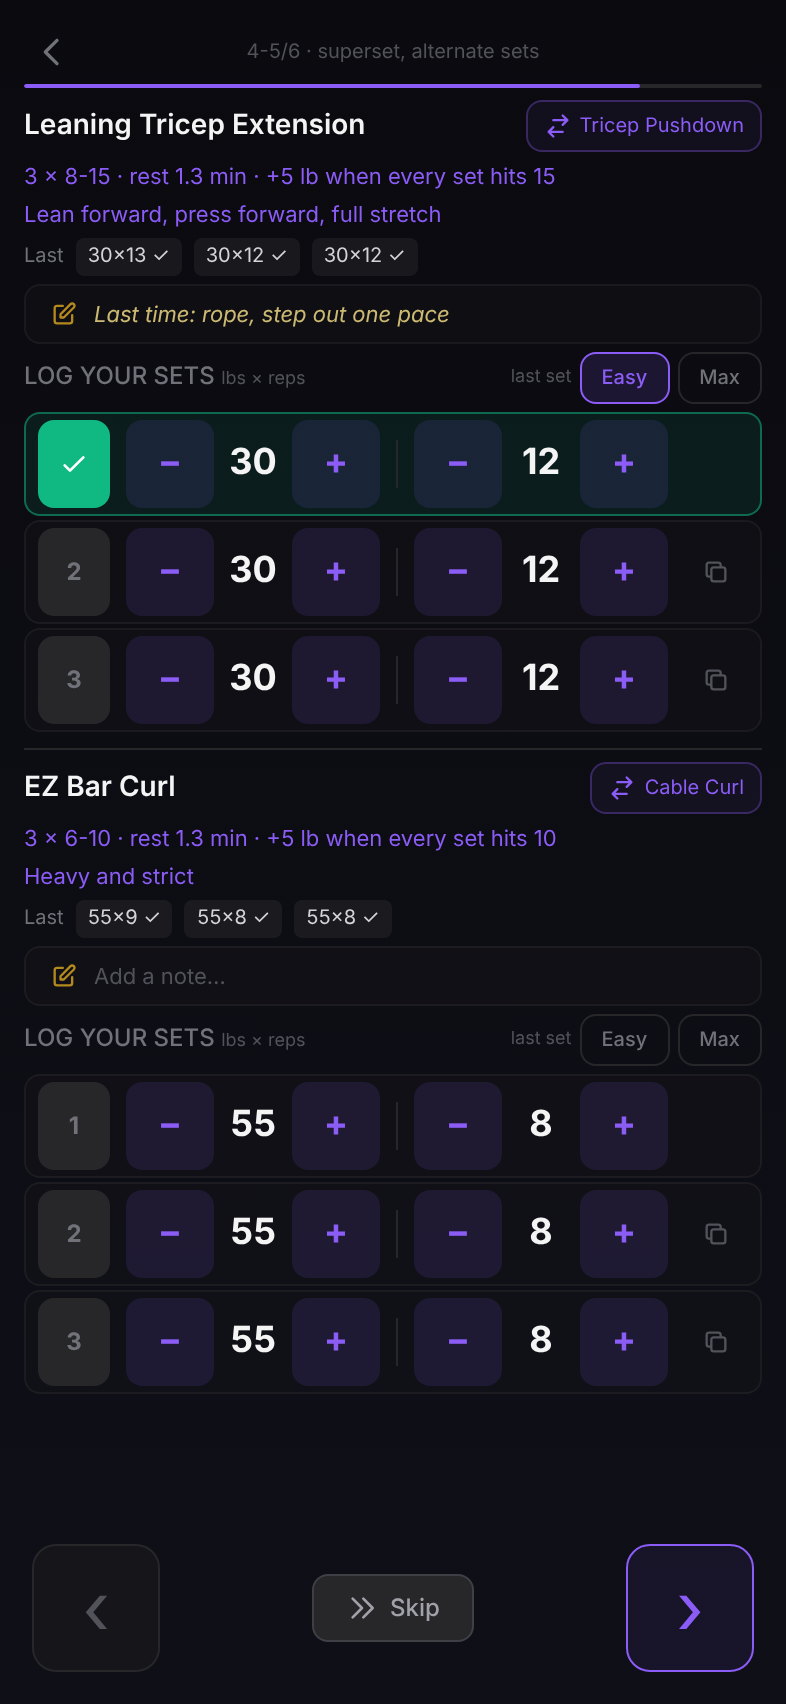
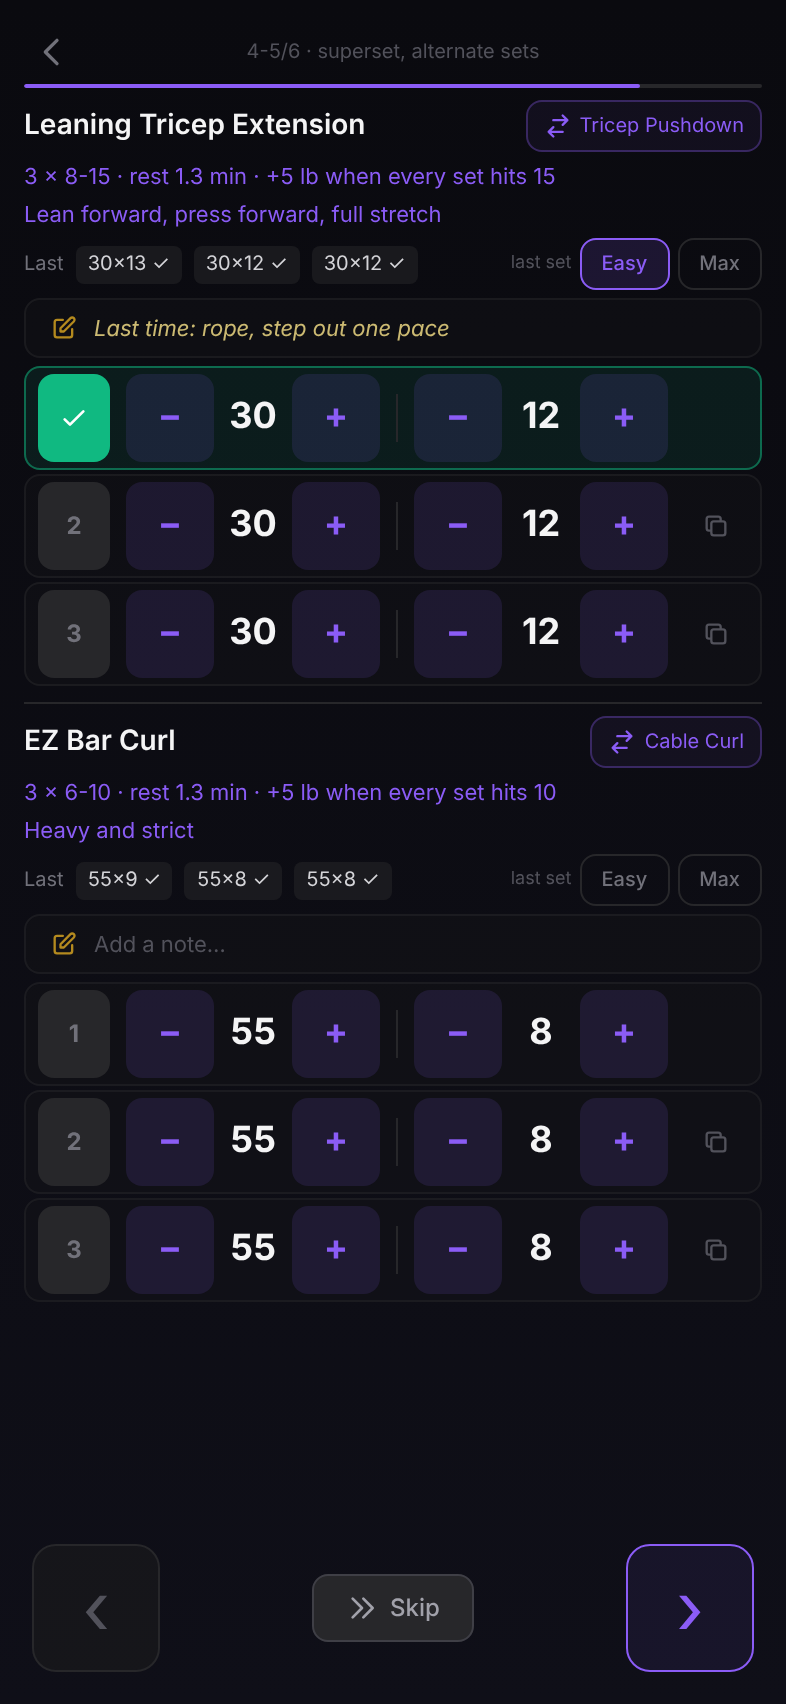
Superset screen fits the phone; measure checks it and the touch targets
- Superset panels put the effort chips on the last-session row and drop
  the set header, bringing the pair screen from 26 px over to 20 px spare.
- measure.js measures the superset screen, checks every touch-target
  minimum from the brief, and exits non-zero on any overflow or shrink.
- Brief and reference screenshots updated to match.

Claude-Session: https://claude.ai/code/session_01TmQ9eYEmiSU1XnFWvApWAo

diff --git a/tests/measure.js b/tests/measure.js
@@ -7,6 +7,7 @@ const { chromium } = require('playwright-core');
 const file = process.argv[2] && !process.argv[2].startsWith('--') ? process.argv[2] : path.join(__dirname, '..', 'workout-tracker.html');
 const shot = process.argv.includes('--shot');
 const USABLE = 852 - 59 - 34;
+let failures = 0;
 
 (async () => {
   const browser = await chromium.launch({ executablePath: '/opt/pw-browsers/chromium', args: ['--no-sandbox'] });
@@ -16,6 +17,9 @@ const USABLE = 852 - 59 - 34;
     const day = (n) => new Date(Date.now() - n * 864e5).toISOString();
     const entry = (w, r, n, extra = {}) => ({ exerciseName: 'x', usedAlt: false, weight: w, sets: [{ weight: Math.round(w*0.5), reps: 5, completed: true, warmup: true }, { weight: Math.round(w*0.7), reps: 3, completed: true, warmup: true }, { weight: w, reps: r, completed: true }, { weight: w, reps: r, completed: true }, { weight: w, reps: r, completed: true }], date: day(n), skipped: false, ...extra });
     const seed = { day2: { exercises: { deadlift: [entry(215, 6, 40), entry(225, 5, 30, { notes: 'belt too loose, tighten before set 2' }), entry(230, 5, 20), entry(235, 4, 10)] }, sessions: [{ date: day(10), absDone: true }, { date: day(20), absDone: true }, { date: day(30), absDone: false }] } };
+    // History for a superset pair, so the two-panel screen is measured at its tallest
+    seed.day2.exercises.leg_curl = [entry(90, 10, 10, { notes: 'pad one notch back' })];
+    seed.day2.exercises.leg_ext = [entry(100, 12, 10)];
     await ctx.addInitScript((v) => { localStorage.setItem('workoutLog_4day', v); }, JSON.stringify(seed));
   }
   await page.goto('file://' + file, { waitUntil: 'load' });
@@ -43,6 +47,7 @@ const USABLE = 852 - 59 - 34;
     const need = r.contentBottom + 59;
     const limit = 852 - 34 - (r.fixedH ? r.fixedH + 8 : 0);
     const over = need - limit;
+    if (over > 0) failures++;
     console.log(`\n== ${label}: content needs ${need}px, limit ${limit}px → ${over > 0 ? 'OVERFLOWS by ' + over + 'px' : 'FITS (' + (-over) + 'px spare)'}`);
     for (const s of r.sections) console.log(`   ${String(s.h).padStart(4)}px${s.fixed ? '*' : ' '} ${s.tag.toLowerCase().padEnd(8)} ${s.cls.padEnd(40)} ${s.text}`);
     if (shot) await page.screenshot({ path: path.join(__dirname, `shot-${label.replace(/\W+/g, '_')}.png`), fullPage: true });
@@ -54,6 +59,25 @@ const USABLE = 852 - 59 - 34;
     return false;
   };
 
+  // Touch targets from DESIGN_BRIEF.md section 3: every matching control must be at least this big
+  const sizes = async (label, specs) => {
+    for (const [name, selector, text, minW, minH] of specs) {
+      const boxes = await page.evaluate(([sel, t]) => [...document.querySelectorAll(sel)].filter(el => t === null || el.textContent.trim() === t || (t.endsWith('*') && el.textContent.includes(t.slice(0, -1)))).map(el => { const r = el.getBoundingClientRect(); return [Math.round(r.width), Math.round(r.height)]; }), [selector, text]);
+      const bad = boxes.filter(([w, h]) => w < minW || h < minH);
+      if (boxes.length === 0 || bad.length) failures++;
+      console.log(`   ${boxes.length === 0 ? 'FAIL (not found)' : bad.length ? `FAIL ${bad[0][0]}x${bad[0][1]}` : 'ok  '} ${label}: ${name} >= ${minW}x${minH} (${boxes.length} found${boxes.length ? `, smallest ${Math.min(...boxes.map(b => b[0]))}x${Math.min(...boxes.map(b => b[1]))}` : ''})`);
+    }
+  };
+  const loggingTargets = [
+    ['set toggle', '.set-row > div > button:first-child', null, 36, 44],
+    ['stepper −', '.set-row button', '−', 44, 44],
+    ['stepper +', '.set-row button', '+', 44, 44],
+    ['prev', 'button', '‹', 64, 64],
+    ['next', 'button', '›', 64, 64],
+    ['skip', 'button', 'Skip*', 40, 32],
+    ['effort chip', '.effort-chips button', null, 40, 26]
+  ];
+
   await report('program-select');
   await click('Strongman');
   await report('home');
@@ -62,8 +86,14 @@ const USABLE = 852 - 59 - 34;
   // jump into exercise 1 (deadlift-style days have 5 set rows; use Lower Power for worst case)
   await click('Back'); await click('Lower Power');
   await report('day-overview-9-exercises');
+  await sizes('day overview', [['exercise row', '.exercise-row', null, 44, 44], ['? button', '.info-btn', null, 36, 36]]);
   await page.click('.exercise-row'); await page.waitForTimeout(500);
   await report(process.argv.includes('--seed') ? 'exercise-deadlift-5-sets-WITH-history' : 'exercise-deadlift-5-sets');
+  await sizes('exercise', loggingTargets);
+  // Superset pair (leg curl + leg extension): two panels on one screen
+  for (let i = 0; i < 3; i++) await click('›');
+  await report('exercise-superset-pair');
+  await sizes('superset', loggingTargets);
   // Walk to summary and complete (worst case: 6-exercise day)
   for (let i = 0; i < 8; i++) { const ok = await click('›'); if (!ok) break; }
   await page.waitForTimeout(400);
@@ -72,4 +102,6 @@ const USABLE = 852 - 59 - 34;
   await page.waitForTimeout(600);
   await report('complete');
   await browser.close();
+  console.log(failures ? `\n${failures} check(s) FAILED` : '\nAll screens fit and all touch targets hold');
+  process.exit(failures ? 1 : 0);
 })();

diff --git a/src/workout-tracker.jsx b/src/workout-tracker.jsx
@@ -1509,16 +1509,18 @@ function WorkoutApp() {
             <>
               {/* Superset: suggestion and last session, one line each */}
               <p className="text-[11px] truncate" style={{ color: suggestionColor, marginBottom: 4 }}>{suggestionText}</p>
-              {progression.lastSession && (
-                <div className="flex gap-1.5 items-center mb-1" style={{ overflow: 'hidden', whiteSpace: 'nowrap' }}>
-                  <span className="text-[10px] text-zinc-500 flex-shrink-0">Last</span>
-                  {progression.lastSession.sets.map((s, i) => (
+              {/* Last session on the left, effort chips on the right: saves the header row */}
+              <div className="flex items-center justify-between gap-2 mb-1">
+                <div className="flex gap-1.5 items-center flex-1 min-w-0" style={{ overflow: 'hidden', whiteSpace: 'nowrap' }}>
+                  {progression.lastSession && <span className="text-[10px] text-zinc-500 flex-shrink-0">Last</span>}
+                  {(progression.lastSession?.sets || []).map((s, i) => (
                     <span key={i} className={`px-1.5 py-0.5 rounded text-[10px] flex-shrink-0 ${s.warmup ? 'bg-amber-500/10 text-amber-400/80' : 'bg-zinc-800/50 text-zinc-300'}`}>
                       {s.warmup ? 'W ' : ''}{s.weight}×{s.reps}{s.completed ? ' ✓' : ''}
                     </span>
                   ))}
                 </div>
-              )}
+                <EffortChips value={currentData.effort || null} onChange={(v) => patchExercise(index, { effort: v })} accent={accent} />
+              </div>
             </>
           ) : (
             <>
@@ -1597,10 +1599,10 @@ function WorkoutApp() {
 
           {/* Journal - sets to log, plus the optional one-tap rating of the last set */}
           <div style={{ marginTop: paired ? 4 : 8 }}>
-            <div className="flex justify-between items-center mb-1">
+            {!paired && <div className="flex justify-between items-center mb-1">
               <span className="text-xs text-zinc-500 font-medium">LOG YOUR SETS <span className="text-[9px] text-zinc-600" style={{ fontWeight: 400 }}>{exerciseConfig.assisted ? 'lbs assist' : 'lbs'} × reps</span></span>
               <EffortChips value={currentData.effort || null} onChange={(v) => patchExercise(index, { effort: v })} accent={accent} />
-            </div>
+            </div>}
             <div style={{ display: 'flex', flexDirection: 'column', gap: 2 }}>
               {currentData.sets.map((set, i) => (
                 <SetRow

diff --git a/workout-tracker.html b/workout-tracker.html
@@ -3787,18 +3787,26 @@ function WorkoutApp() {
           color: suggestionColor,
           marginBottom: 4
         }
-      }, suggestionText), progression.lastSession && React.createElement("div", {
-        className: "flex gap-1.5 items-center mb-1",
+      }, suggestionText), React.createElement("div", {
+        className: "flex items-center justify-between gap-2 mb-1"
+      }, React.createElement("div", {
+        className: "flex gap-1.5 items-center flex-1 min-w-0",
         style: {
           overflow: 'hidden',
           whiteSpace: 'nowrap'
         }
-      }, React.createElement("span", {
+      }, progression.lastSession && React.createElement("span", {
         className: "text-[10px] text-zinc-500 flex-shrink-0"
-      }, "Last"), progression.lastSession.sets.map((s, i) => React.createElement("span", {
+      }, "Last"), (progression.lastSession?.sets || []).map((s, i) => React.createElement("span", {
         key: i,
         className: `px-1.5 py-0.5 rounded text-[10px] flex-shrink-0 ${s.warmup ? 'bg-amber-500/10 text-amber-400/80' : 'bg-zinc-800/50 text-zinc-300'}`
-      }, s.warmup ? 'W ' : '', s.weight, "\xD7", s.reps, s.completed ? ' ✓' : '')))) : React.createElement(React.Fragment, null, progression.lastSession && React.createElement("div", {
+      }, s.warmup ? 'W ' : '', s.weight, "\xD7", s.reps, s.completed ? ' ✓' : ''))), React.createElement(EffortChips, {
+        value: currentData.effort || null,
+        onChange: v => patchExercise(index, {
+          effort: v
+        }),
+        accent: accent
+      }))) : React.createElement(React.Fragment, null, progression.lastSession && React.createElement("div", {
         className: "mb-2 px-3 py-1.5 rounded-xl bg-zinc-900/50 border border-zinc-800/50"
       }, React.createElement("div", {
         className: "flex justify-between items-center"
@@ -3877,7 +3885,7 @@ function WorkoutApp() {
         style: {
           marginTop: paired ? 4 : 8
         }
-      }, React.createElement("div", {
+      }, !paired && React.createElement("div", {
         className: "flex justify-between items-center mb-1"
       }, React.createElement("span", {
         className: "text-xs text-zinc-500 font-medium"

diff --git a/tests/screens.js b/tests/screens.js
@@ -38,7 +38,7 @@ const seed = {
   await tap('Upper Power'); await shot('day_overview');
   await page.click('.info-btn'); await shot('day_overview_info_sheet'); await tap('Close');
   await tap('Back'); await tap('Upper Size');
-  await tap('Leaning Tricep Extension'); await page.waitForSelector('text=LOG YOUR SETS');
+  await tap('Leaning Tricep Extension'); await page.waitForSelector('.set-row');
   await page.click('.set-row button'); await page.click('.effort-chips button');
   await shot('exercise_superset_pair');
   await page.click('button.p-1'); await tap('Back');
@@ -46,7 +46,7 @@ const seed = {
   await tap('Begin Workout'); await page.waitForSelector('text=LOG YOUR SETS');
   for (const b of (await page.$$('.set-row')).slice(0, 3)) await (await b.$('button')).click();
   await shot('exercise_deadlift_with_history');
-  for (let i = 0; i < 6 && await page.$('text=LOG YOUR SETS'); i++) await page.click('button:has-text("›")');
+  for (let i = 0; i < 6 && await page.$('.set-row'); i++) await page.click('button:has-text("›")');
   await shot('summary_6_exercises');
   await tap('Complete workout'); await shot('complete');
   await tap('Done'); await tap('History'); await shot('history');

diff --git a/DESIGN_BRIEF.md b/DESIGN_BRIEF.md
@@ -40,7 +40,7 @@ Every one of these must exist, unchanged in behavior, on the same screen it is o
 8. **Notes row**, collapsed by default, showing today's note or *"Last time: <first line of last session's note>"*; tap to expand a textarea. This preview is deliberate — a note the lifter can't see isn't a note.
 9. Warm-up sets are marked (`W`) and visibly distinct from working sets.
 10. **Effort chips**: `last set  [Easy] [Max]` on the right of the "LOG YOUR SETS" header, 26 px tall. Optional: untouched means "about right"; one tap sets, the same tap clears. The selected chip takes the day accent. (The old abs-slot dropdown no longer exists.)
-10a. **Superset screen**: the two exercises of a superset share one screen as two compact panels separated by a hairline. Each panel has: name + alternate toggle, target line (one line, truncated), suggestion (one line, colored), last-session chips (one line), collapsed notes row (30 px), the "LOG YOUR SETS" header with effort chips, and its set rows. The plan note and chart are omitted on this screen only. The header reads `4-5/6 · superset, alternate sets`. Set rows are identical to the single-exercise screen.
+10a. **Superset screen**: the two exercises of a superset share one screen as two compact panels separated by a hairline. Each panel has: name + alternate toggle, target line (one line, truncated), suggestion (one line, colored), one row with last-session chips on the left and the effort chips on the right, collapsed notes row (30 px), and its set rows. The plan note, chart and "LOG YOUR SETS" header are omitted on this screen only. The header reads `4-5/6 · superset, alternate sets`. Set rows are identical to the single-exercise screen.
 
 ### Day overview
 11. Back, day name and focus line, the **5-minute mobility block** (5 short lines), the **ab-routine checkbox** with adherence text, one tappable row per exercise (name, sets × reps, last weight, "⇄" marker on superset pairs, checkmark once worked this session), a **"?" button per row** that opens a bottom sheet (description, video link, rep range, increment), and a fixed **Start / Continue workout** button.
@@ -73,12 +73,12 @@ Every one of these must exist, unchanged in behavior, on the same screen it is o
 | Screen | Worst case | Content height today | Room |
 |---|---|---|---|
 | Exercise | 5 set rows + history + chart + 2-line cue + target line + effort chips | 719 pt of 730 | **11 pt** |
-| Exercise (superset) | 3 + 3 set rows, both with history | about 700 of 730 (hand-measured; not yet in `measure.js`) | ~30 pt |
+| Exercise (superset) | 3 + 3 set rows, both with history | 710 of 730 | 20 pt |
 | Day overview | 6 exercises + mobility block | 719 of 738 | 19 pt |
 | Summary | 6 exercises | 610 of 694 | 84 pt |
 | Home | 6 days + consistency bars + backup nudge + both utility rows | 808 of 818 | **10 pt** |
 
-These come from `tests/measure.js --seed`, which renders each screen in Chromium at 393×852 with seeded history and the standalone insets applied. Re-run it on any layout proposal.
+These come from `tests/measure.js --seed` (`npm run measure`), which renders each screen in Chromium at 393×852 with seeded history and the standalone insets applied. It also checks the touch-target sizes below and exits non-zero if a screen overflows or a target shrinks. Re-run it on any layout proposal.
 
 - The exercise screen has essentially **zero vertical slack**. Any added padding, larger type, or taller cards there must be paid for elsewhere on the same screen. A design that adds 10 pt per set row is 50 pt over.
 - **One layout for all exercises.** Sizes do not change with the number of sets (see §1). A 3-set exercise shows the same 44 px steppers and 18 px numerals as a 5-set one and leaves the bottom of the screen empty.
@@ -86,7 +86,7 @@ These come from `tests/measure.js --seed`, which renders each screen in Chromium
 - Content must never sit under the Dynamic Island or the home indicator.
 
 ### Touch targets
-- Keep every current hit size: set toggle 36 × 44, stepper buttons 44 × 44, prev/next 64 × 64, Skip ≥ 40 tall, "?" 36 × 36, rows ≥ 44 tall. These are used with chalked hands between heavy sets. Do not shrink; may enlarge only if the height budget allows.
+- Keep every current hit size: set toggle 36 × 44, stepper buttons 44 × 44, prev/next 64 × 64, Skip ≥ 32 tall (34 today), "?" 36 × 36, rows ≥ 44 tall. These are used with chalked hands between heavy sets. Do not shrink; may enlarge only if the height budget allows.
 - No hover-only affordances. No gestures (swipe-to-delete, long-press) as the only way to do anything.
 
 ### Implementation reality
@@ -142,7 +142,7 @@ Two rendering caveats: the screenshots come from headless Chromium on Linux, so 
 ## 6. Acceptance checklist (the implementer will test these)
 
 - [ ] `cd tests && npm test` passes unchanged: walkthrough (25 functional checks, and it fails if `workout-tracker.html` was not rebuilt from `src/`), migration (19), engine (35).
-- [ ] `tests/measure.js --seed` reports FITS for every screen on iPhone 16 Pro.
+- [ ] `npm run measure` ends with "All screens fit and all touch targets hold".
 - [ ] All hit sizes in §3 preserved (measured, not eyeballed).
 - [ ] A lifter who used the app last week can find every control without hunting.
 - [ ] Reads at arm's length in a bright room: weight/rep numerals, the suggestion, which sets are done.
